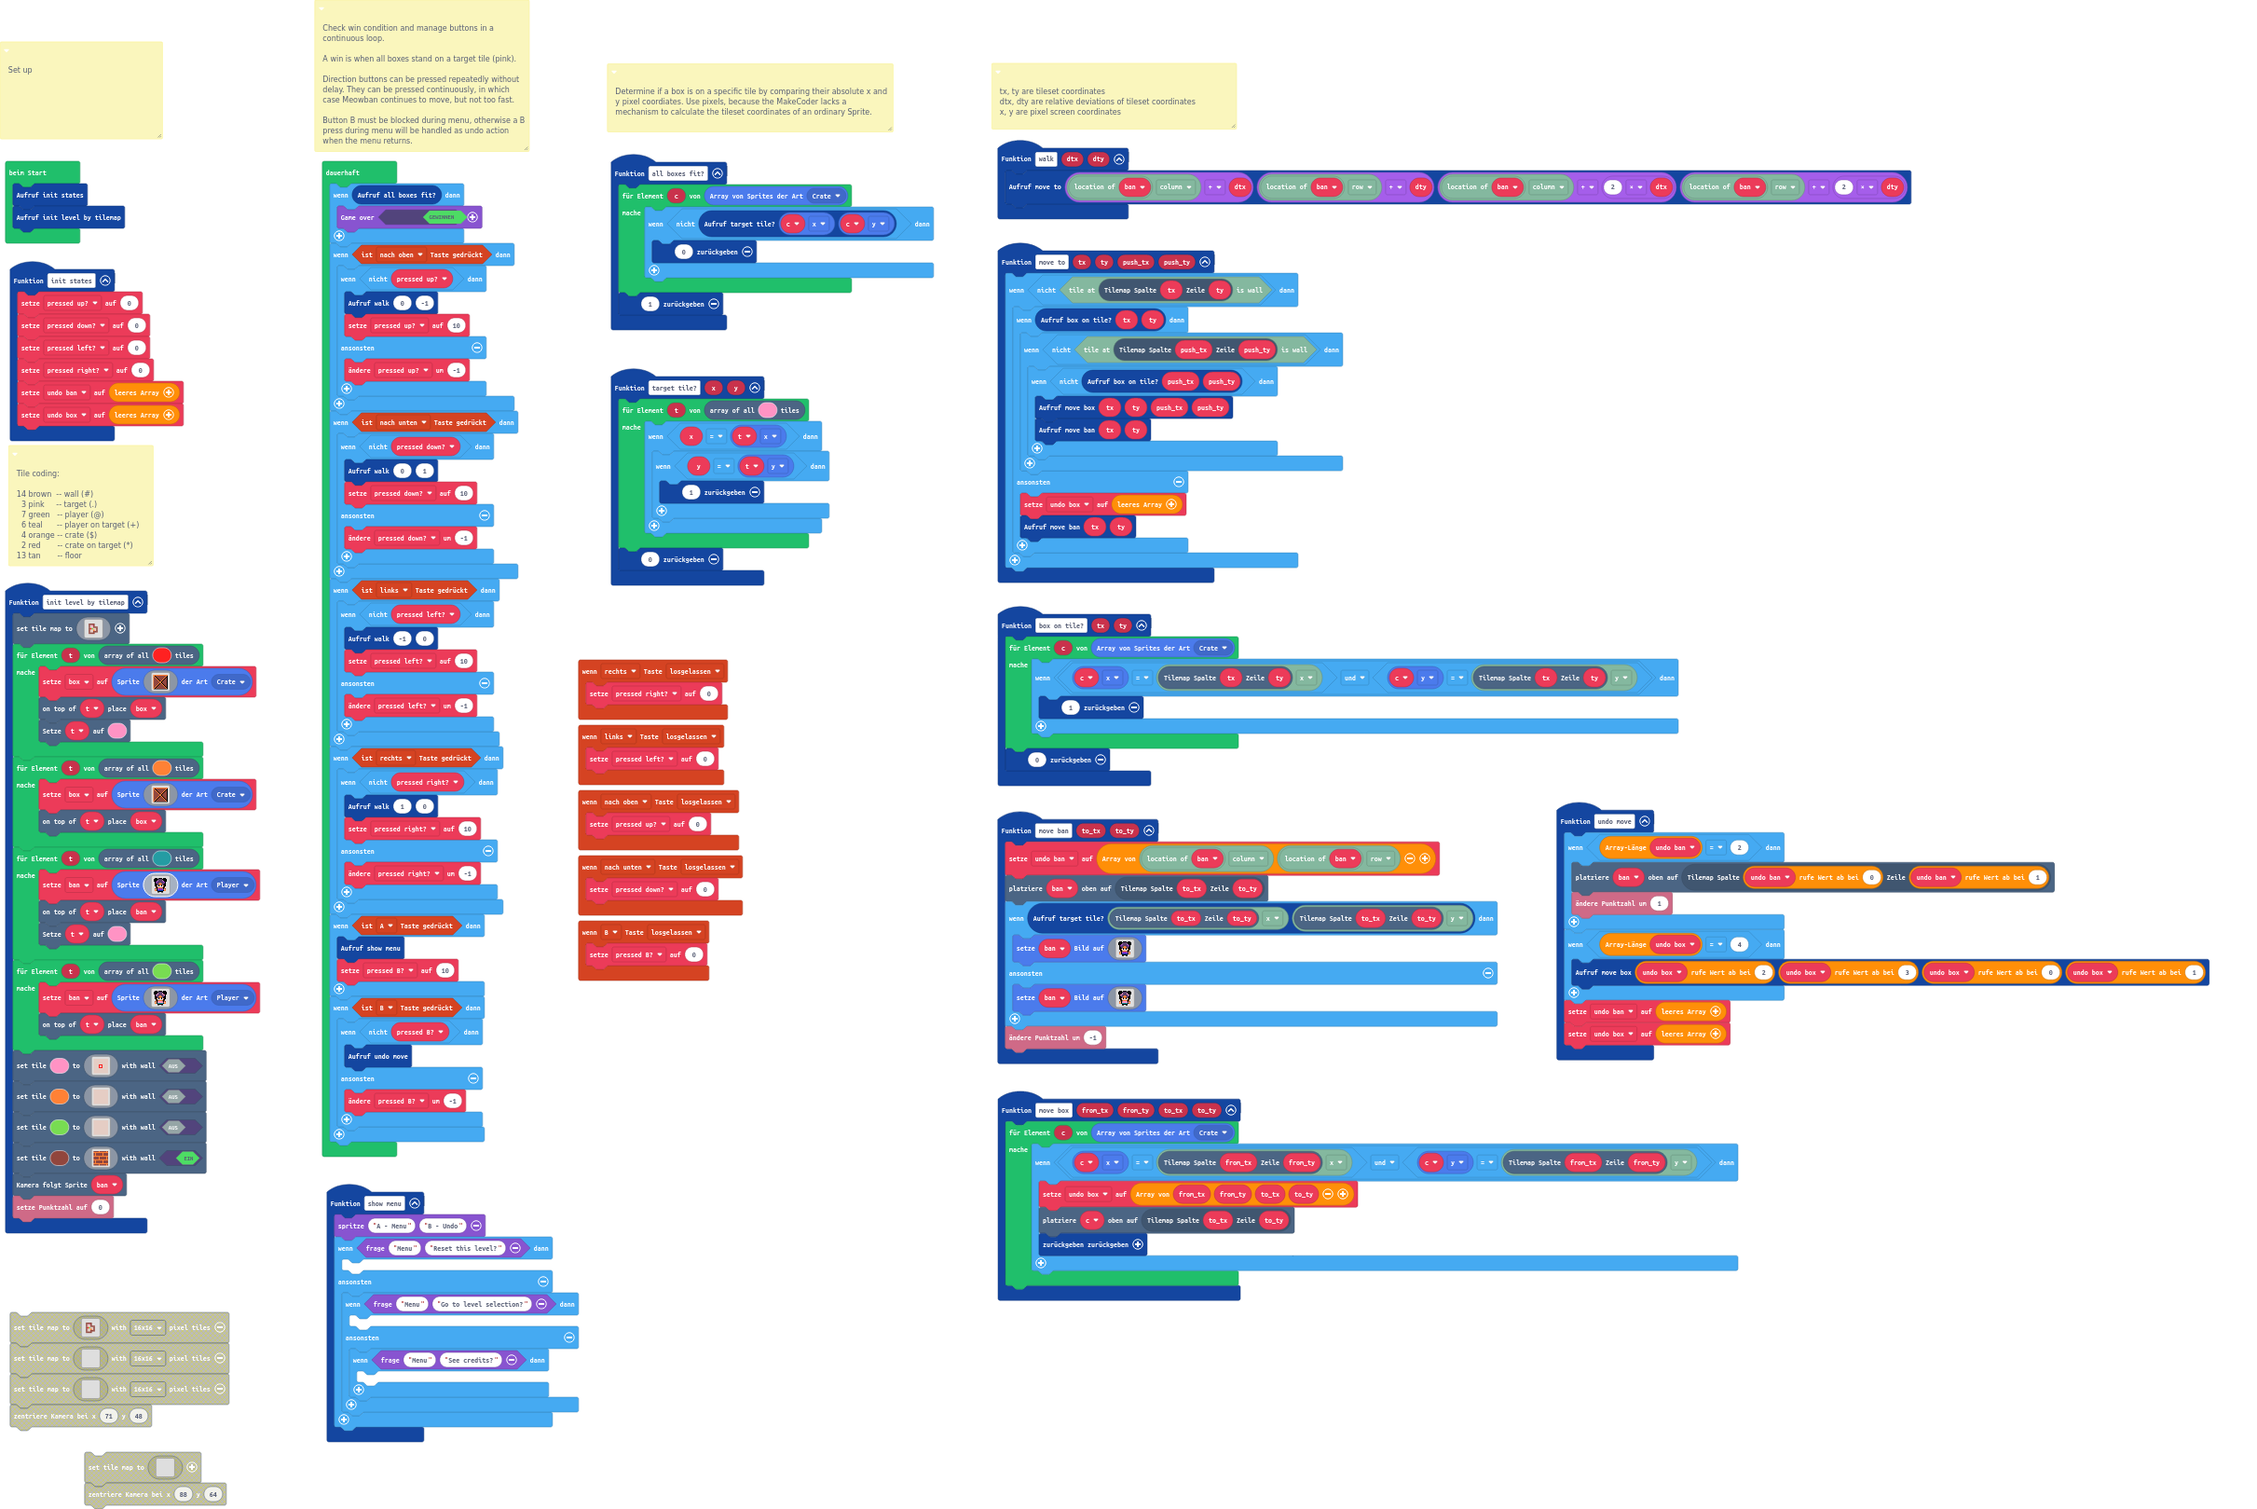
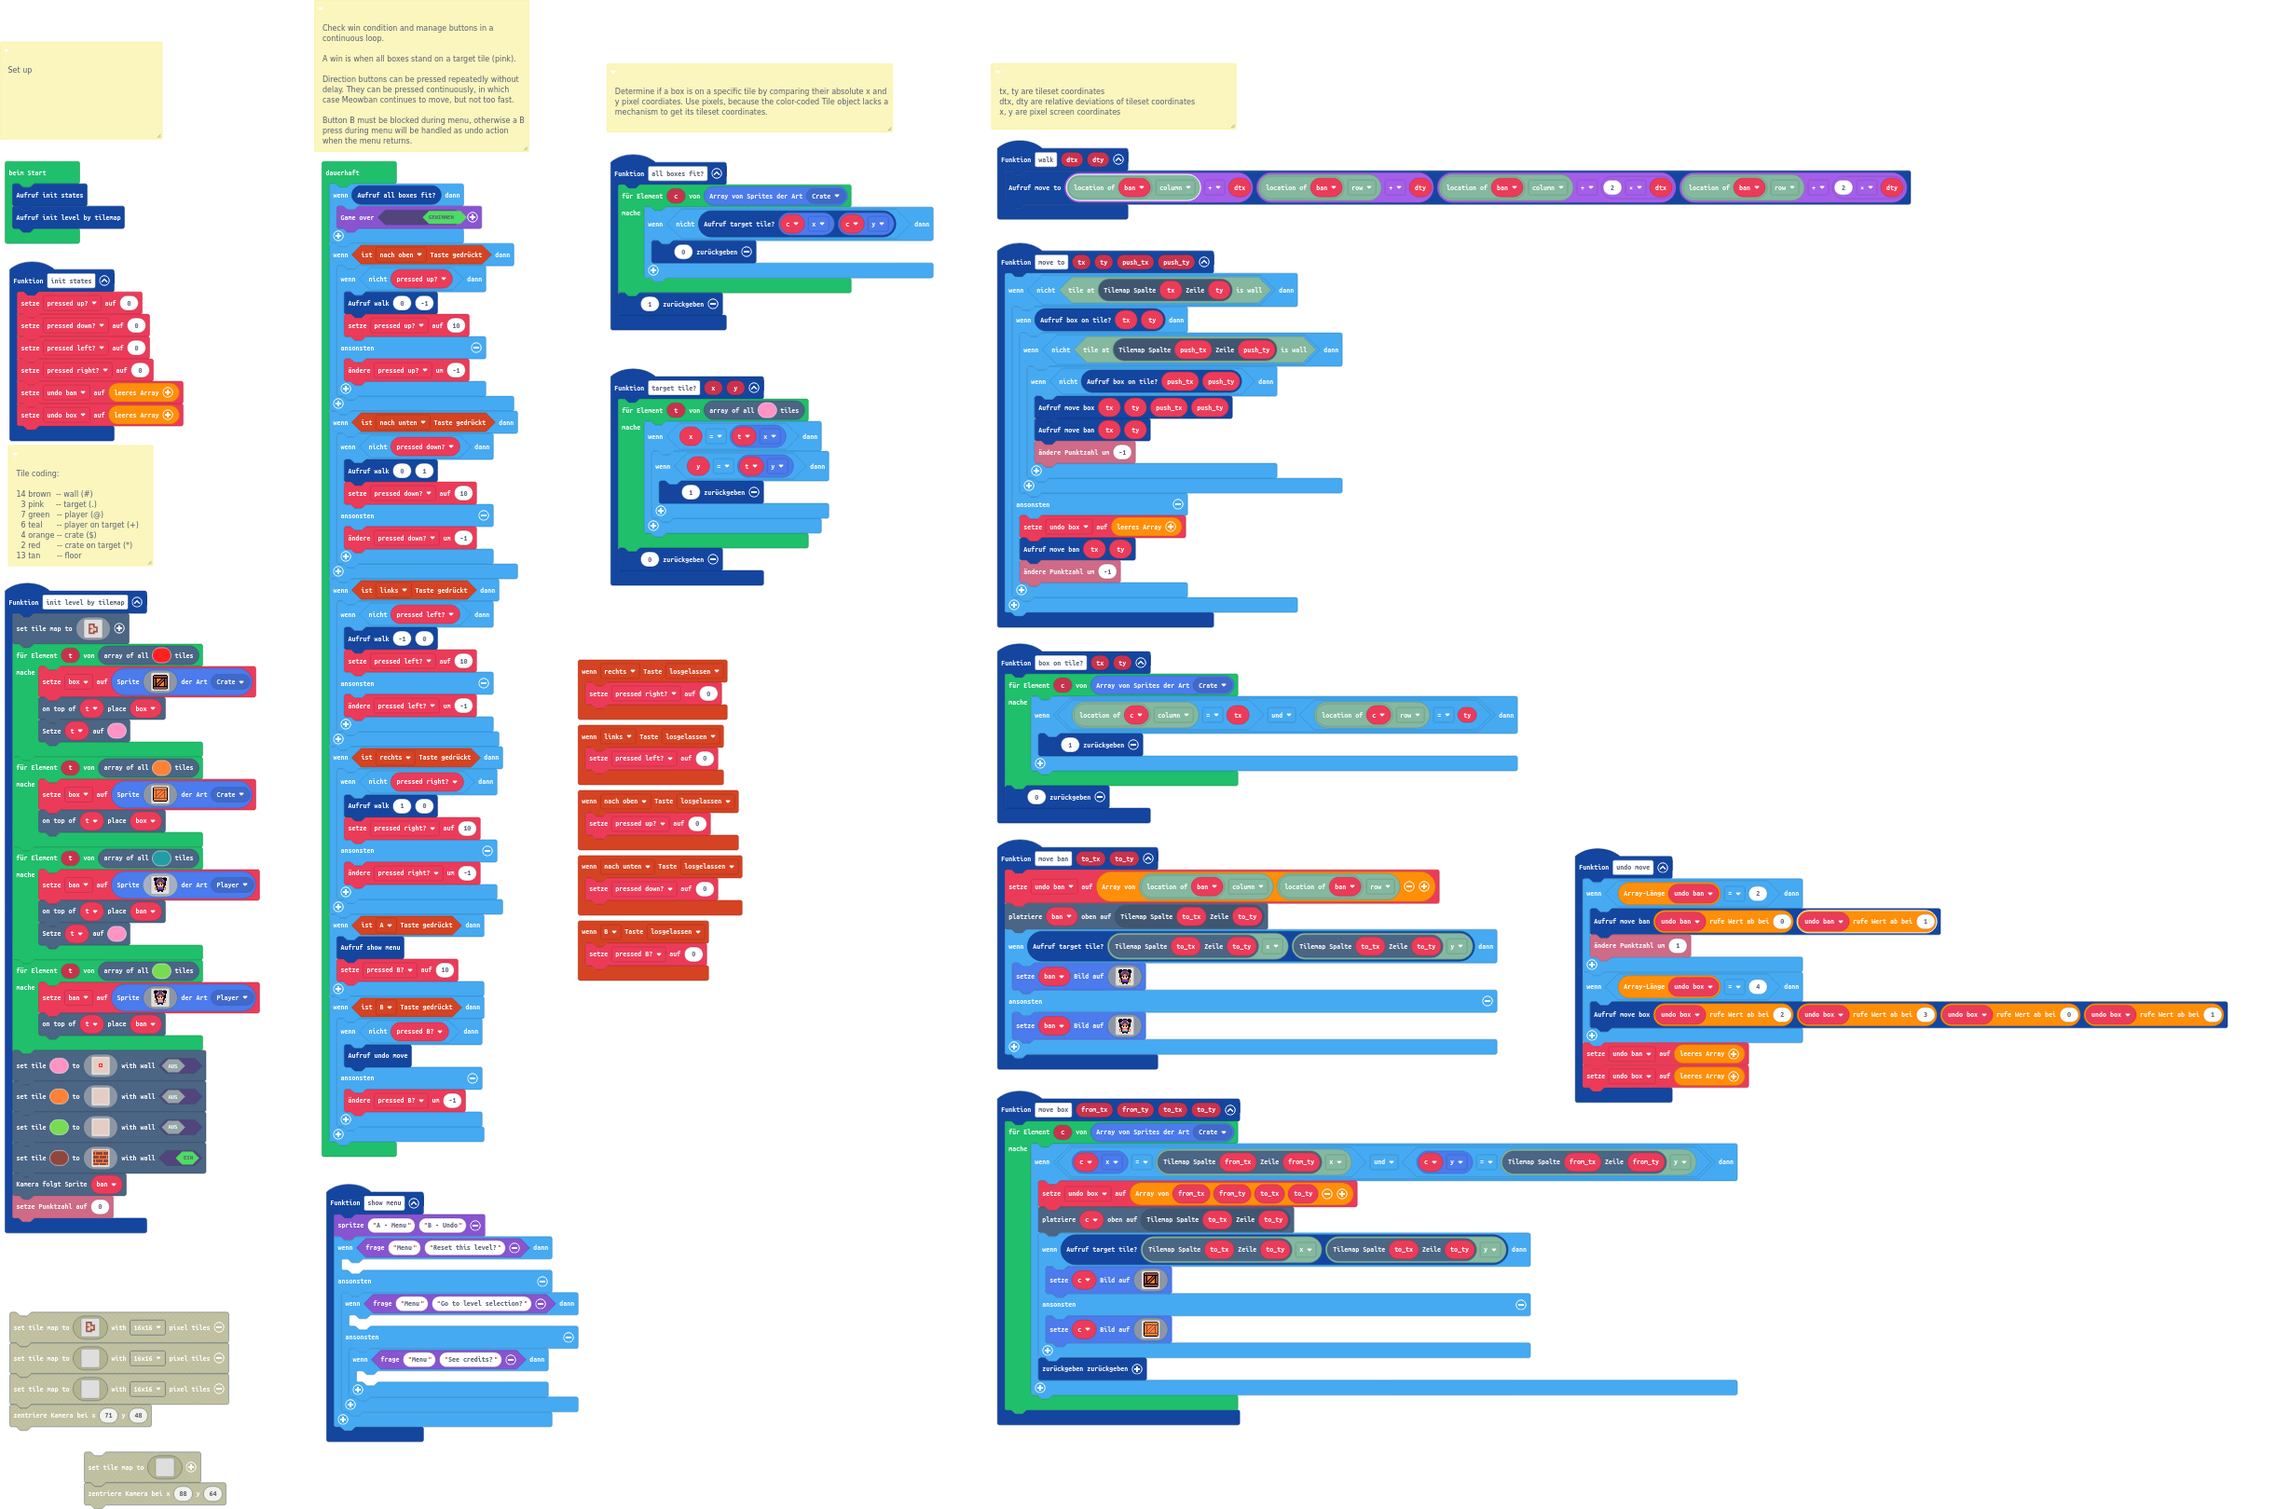
Different crate color when on target tile

diff --git a/main.ts b/main.ts
@@ -14,7 +14,7 @@ namespace SpriteKind {
  * Set up
  */
 /**
- * Determine if a box is on a specific tile by comparing their absolute x and y pixel coordiates. Use pixels, because the MakeCoder lacks a mechanism to calculate the tileset coordinates of an ordinary Sprite.
+ * Determine if a box is on a specific tile by comparing their absolute x and y pixel coordiates. Use pixels, because the color-coded Tile object lacks a mechanism to get its tileset coordinates.
  */
 controller.down.onEvent(ControllerButtonEvent.Released, function () {
     pressed_down = 0
@@ -68,11 +68,13 @@ function move_to (tx: number, ty: number, push_tx: number, push_ty: number) {
                 if (!(box_on_tile(push_tx, push_ty))) {
                     move_box(tx, ty, push_tx, push_ty)
                     move_ban(tx, ty)
+                    info.changeScoreBy(-1)
                 }
             }
         } else {
             undo_box = []
             move_ban(tx, ty)
+            info.changeScoreBy(-1)
         }
     }
 }
@@ -109,44 +111,44 @@ function init_level_by_tilemap () {
         `)
     for (let t of scene.getTilesByType(2)) {
         box = sprites.create(img`
-            4 4 4 4 4 4 4 4 4 4 4 4 4 4 4 4 
-            4 4 f e e e e e e e e e e e 4 f 
-            4 e 4 f e e e e e e e e e 4 f f 
-            4 e e 4 f e e e e e e e 4 f e f 
-            4 e e e 4 f e e e e e 4 f e e f 
-            4 e e e e 4 f e e e 4 f e e e f 
-            4 e e e e e 4 f e 4 f e e e e f 
-            4 e e e e e e 4 4 f e e e e e f 
-            4 e e e e e e 4 4 f e e e e e f 
-            4 e e e e e 4 f e 4 f e e e e f 
-            4 e e e e 4 f e e e 4 f e e e f 
-            4 e e e 4 f e e e e e 4 f e e f 
-            4 e e 4 f e e e e e e e 4 f e f 
-            4 e 4 f e e e e e e e e e 4 f f 
-            4 4 f e e e e e e e e e e e 4 f 
-            4 f f f f f f f f f f f f f f f 
+            . f f f f f f f f f f f f f f . 
+            f e e e e e e e e e e e e e e f 
+            f e e e e e e e e e e e e e e f 
+            f f f f f f f f f f f f f f f f 
+            f e e f 4 4 4 4 4 f e e f e e f 
+            f e e f 4 4 4 4 f e e e f e e f 
+            f e e f 4 4 4 f e e e f f e e f 
+            f e e f 4 4 f e e e f 4 f e e f 
+            f e e f 4 f e e e f 4 4 f e e f 
+            f e e f f e e e f 4 4 4 f e e f 
+            f e e f e e e f 4 4 4 4 f e e f 
+            f e e f e e f 4 4 4 4 4 f e e f 
+            f f f f f f f f f f f f f f f f 
+            f e e e e e e e e e e e e e e f 
+            f e e e e e e e e e e e e e e f 
+            . f f f f f f f f f f f f f f . 
             `, SpriteKind.Crate)
         scene.place(t, box)
         scene.setTileAt(t, 3)
     }
     for (let t of scene.getTilesByType(4)) {
         box = sprites.create(img`
-            4 4 4 4 4 4 4 4 4 4 4 4 4 4 4 4 
-            4 4 f e e e e e e e e e e e 4 f 
-            4 e 4 f e e e e e e e e e 4 f f 
-            4 e e 4 f e e e e e e e 4 f e f 
-            4 e e e 4 f e e e e e 4 f e e f 
-            4 e e e e 4 f e e e 4 f e e e f 
-            4 e e e e e 4 f e 4 f e e e e f 
-            4 e e e e e e 4 4 f e e e e e f 
-            4 e e e e e e 4 4 f e e e e e f 
-            4 e e e e e 4 f e 4 f e e e e f 
-            4 e e e e 4 f e e e 4 f e e e f 
-            4 e e e 4 f e e e e e 4 f e e f 
-            4 e e 4 f e e e e e e e 4 f e f 
-            4 e 4 f e e e e e e e e e 4 f f 
-            4 4 f e e e e e e e e e e e 4 f 
-            4 f f f f f f f f f f f f f f f 
+            . f f f f f f f f f f f f f f . 
+            f 4 4 4 4 4 4 4 4 4 4 4 4 4 4 f 
+            f 4 4 4 4 4 4 4 4 4 4 4 4 4 4 f 
+            f e e e e e e e e e e e e e e f 
+            f 4 4 e 4 4 4 4 4 e 4 4 e 4 4 f 
+            f 4 4 e 4 4 4 4 e 4 4 4 e 4 4 f 
+            f 4 4 e 4 4 4 e 4 4 4 e e 4 4 f 
+            f 4 4 e 4 4 e 4 4 4 e 4 e 4 4 f 
+            f 4 4 e 4 e 4 4 4 e 4 4 e 4 4 f 
+            f 4 4 e e 4 4 4 e 4 4 4 e 4 4 f 
+            f 4 4 e 4 4 4 e 4 4 4 4 e 4 4 f 
+            f 4 4 e 4 4 e 4 4 4 4 4 e 4 4 f 
+            f e e e e e e e e e e e e e e f 
+            f 4 4 4 4 4 4 4 4 4 4 4 4 4 4 f 
+            f 4 4 4 4 4 4 4 4 4 4 4 4 4 4 f 
+            . f f f f f f f f f f f f f f . 
             `, SpriteKind.Crate)
         scene.place(t, box)
     }
@@ -270,7 +272,7 @@ function init_level_by_tilemap () {
 }
 function undo_move () {
     if (undo_ban.length == 2) {
-        tiles.placeOnTile(ban, tiles.getTileLocation(undo_ban[0], undo_ban[1]))
+        move_ban(undo_ban[0], undo_ban[1])
         info.changeScoreBy(1)
     }
     if (undo_box.length == 4) {
@@ -324,11 +326,10 @@ function move_ban (to_tx: number, to_ty: number) {
             . . . . . f f . . f f . . . . . 
             `)
     }
-    info.changeScoreBy(-1)
 }
 function box_on_tile (tx: number, ty: number) {
     for (let c of sprites.allOfKind(SpriteKind.Crate)) {
-        if (c.x == tiles.locationXY(tiles.getTileLocation(tx, ty), tiles.XY.x) && c.y == tiles.locationXY(tiles.getTileLocation(tx, ty), tiles.XY.y)) {
+        if (tiles.locationXY(tiles.locationOfSprite(c), tiles.XY.column) == tx && tiles.locationXY(tiles.locationOfSprite(c), tiles.XY.row) == ty) {
             return 1
         }
     }
@@ -342,6 +343,45 @@ function move_box (from_tx: number, from_ty: number, to_tx: number, to_ty: numbe
         if (c.x == tiles.locationXY(tiles.getTileLocation(from_tx, from_ty), tiles.XY.x) && c.y == tiles.locationXY(tiles.getTileLocation(from_tx, from_ty), tiles.XY.y)) {
             undo_box = [from_tx, from_ty, to_tx, to_ty]
             tiles.placeOnTile(c, tiles.getTileLocation(to_tx, to_ty))
+            if (target_tile(tiles.locationXY(tiles.getTileLocation(to_tx, to_ty), tiles.XY.x), tiles.locationXY(tiles.getTileLocation(to_tx, to_ty), tiles.XY.y))) {
+                c.setImage(img`
+                    . f f f f f f f f f f f f f f . 
+                    f e e e e e e e e e e e e e e f 
+                    f e e e e e e e e e e e e e e f 
+                    f f f f f f f f f f f f f f f f 
+                    f e e f 4 4 4 4 4 f e e f e e f 
+                    f e e f 4 4 4 4 f e e e f e e f 
+                    f e e f 4 4 4 f e e e f f e e f 
+                    f e e f 4 4 f e e e f 4 f e e f 
+                    f e e f 4 f e e e f 4 4 f e e f 
+                    f e e f f e e e f 4 4 4 f e e f 
+                    f e e f e e e f 4 4 4 4 f e e f 
+                    f e e f e e f 4 4 4 4 4 f e e f 
+                    f f f f f f f f f f f f f f f f 
+                    f e e e e e e e e e e e e e e f 
+                    f e e e e e e e e e e e e e e f 
+                    . f f f f f f f f f f f f f f . 
+                    `)
+            } else {
+                c.setImage(img`
+                    . f f f f f f f f f f f f f f . 
+                    f 4 4 4 4 4 4 4 4 4 4 4 4 4 4 f 
+                    f 4 4 4 4 4 4 4 4 4 4 4 4 4 4 f 
+                    f e e e e e e e e e e e e e e f 
+                    f 4 4 e 4 4 4 4 4 e 4 4 e 4 4 f 
+                    f 4 4 e 4 4 4 4 e 4 4 4 e 4 4 f 
+                    f 4 4 e 4 4 4 e 4 4 4 e e 4 4 f 
+                    f 4 4 e 4 4 e 4 4 4 e 4 e 4 4 f 
+                    f 4 4 e 4 e 4 4 4 e 4 4 e 4 4 f 
+                    f 4 4 e e 4 4 4 e 4 4 4 e 4 4 f 
+                    f 4 4 e 4 4 4 e 4 4 4 4 e 4 4 f 
+                    f 4 4 e 4 4 e 4 4 4 4 4 e 4 4 f 
+                    f e e e e e e e e e e e e e e f 
+                    f 4 4 4 4 4 4 4 4 4 4 4 4 4 4 f 
+                    f 4 4 4 4 4 4 4 4 4 4 4 4 4 4 f 
+                    . f f f f f f f f f f f f f f . 
+                    `)
+            }
             return
         }
     }

diff --git a/images.g.ts b/images.g.ts
@@ -66,24 +66,6 @@ e e e e e e 4 e e e e e e e 4 e
 . . e d d e e e . . 
 . . e e e e . . . . 
 `;
-            case "image18":return img`
-4 4 4 4 4 4 4 4 4 4 4 4 4 4 4 4 
-4 4 f e e e e e e e e e e e 4 f 
-4 e 4 f e e e e e e e e e 4 f f 
-4 e e 4 f e e e e e e e 4 f e f 
-4 e e e 4 f e e e e e 4 f e e f 
-4 e e e e 4 f e e e 4 f e e e f 
-4 e e e e e 4 f e 4 f e e e e f 
-4 e e e e e e 4 4 f e e e e e f 
-4 e e e e e e 4 4 f e e e e e f 
-4 e e e e e 4 f e 4 f e e e e f 
-4 e e e e 4 f e e e 4 f e e e f 
-4 e e e 4 f e e e e e 4 f e e f 
-4 e e 4 f e e e e e e e 4 f e f 
-4 e 4 f e e e e e e e e e 4 f f 
-4 4 f e e e e e e e e e e e 4 f 
-4 f f f f f f f f f f f f f f f 
-`;
             case "image19":return img`
 . . f f f . f f f f . f f f . . 
 . f f f f f c c c c f f f f f . 
@@ -195,43 +177,7 @@ d d d d d d d d d d d d d d d d
 . . . . . f f f f f f . . . . . 
 . . . . . f f . . f f . . . . . 
 `;
-            case "image10":return img`
-. . . . . . . . . . . . . . . . 
-. . . . . . . . . . . . . . . . 
-. . . . . . . . . . . . . . . . 
-. . . . . . . . . . . . . . . . 
-. . . . . . . . . . . . . . . . 
-. . . . . . . . . . . . . . . . 
-. . . . . . . . . . . . . . . . 
-. . . . . . . . . . . . . . . . 
-. . . . . . . . . . . . . . . . 
-. . . . . . . . . . . . . . . . 
-. . . . . . . . . . . . . . . . 
-. . . . . . . . . . . . . . . . 
-. . . . . . . . . . . . . . . . 
-. . . . . . . . . . . . . . . . 
-. . . . . . . . . . . . . . . . 
-. . . . . . . . . . . . . . . . 
-`;
             case "image12":return img`
-. . f f f . f f f f . f f f . . 
-. f f f f f c c c c f f f f f . 
-. f f f f b c c c c b f f f f . 
-. f f f b a c c c c a b f f f . 
-. . f a a c c c c c c a a f . . 
-. . f c c c c 4 4 c c c c f . . 
-. . f f c c 4 4 4 4 c c f f . . 
-. . f f f b f 4 4 f b f f f . . 
-. . f f 4 1 f d d f 1 4 f f . . 
-. . . f f d d d d d d f f . . . 
-. . . e f e 4 4 4 4 e f e . . . 
-. . e 4 f b a a a a b f 4 e . . 
-. . 4 d f a a a a a a c d 4 . . 
-. . 4 4 f 8 8 8 8 8 8 f 4 4 . . 
-. . . . . f f f f f f . . . . . 
-. . . . . f f . . f f . . . . . 
-`;
-            case "image13":return img`
 . . f f f . f f f f . f f f . . 
 . f f f f f c c c c f f f f f . 
 . f f f f b c c c c b f f f f . 
@@ -266,6 +212,114 @@ d d d d d d d d d d d d d d d d
 . . 4 4 f 6 6 6 6 6 6 f 4 4 . . 
 . . . . . f f f f f f . . . . . 
 . . . . . f f . . f f . . . . . 
+`;
+            case "image18":return img`
+. f f f f f f f f f f f f f f . 
+f 4 4 4 4 4 4 4 4 4 4 4 4 4 4 f 
+f 4 4 4 4 4 4 4 4 4 4 4 4 4 4 f 
+f e e e e e e e e e e e e e e f 
+f 4 4 e 4 4 4 4 4 e 4 4 e 4 4 f 
+f 4 4 e 4 4 4 4 e 4 4 4 e 4 4 f 
+f 4 4 e 4 4 4 e 4 4 4 e e 4 4 f 
+f 4 4 e 4 4 e 4 4 4 e 4 e 4 4 f 
+f 4 4 e 4 e 4 4 4 e 4 4 e 4 4 f 
+f 4 4 e e 4 4 4 e 4 4 4 e 4 4 f 
+f 4 4 e 4 4 4 e 4 4 4 4 e 4 4 f 
+f 4 4 e 4 4 e 4 4 4 4 4 e 4 4 f 
+f e e e e e e e e e e e e e e f 
+f 4 4 4 4 4 4 4 4 4 4 4 4 4 4 f 
+f 4 4 4 4 4 4 4 4 4 4 4 4 4 4 f 
+. f f f f f f f f f f f f f f . 
+`;
+            case "image10":return img`
+. f f f f f f f f f f f f f f . 
+f e e e e e e e e e e e e e e f 
+f e e e e e e e e e e e e e e f 
+f f f f f f f f f f f f f f f f 
+f e e f 4 4 4 4 4 f e e f e e f 
+f e e f 4 4 4 4 f e e e f e e f 
+f e e f 4 4 4 f e e e f f e e f 
+f e e f 4 4 f e e e f 4 f e e f 
+f e e f 4 f e e e f 4 4 f e e f 
+f e e f f e e e f 4 4 4 f e e f 
+f e e f e e e f 4 4 4 4 f e e f 
+f e e f e e f 4 4 4 4 4 f e e f 
+f f f f f f f f f f f f f f f f 
+f e e e e e e e e e e e e e e f 
+f e e e e e e e e e e e e e e f 
+. f f f f f f f f f f f f f f . 
+`;
+            case "image13":return img`
+. . f f f . f f f f . f f f . . 
+. f f f f f c c c c f f f f f . 
+. f f f f b c c c c b f f f f . 
+. f f f b a c c c c a b f f f . 
+. . f a a c c c c c c a a f . . 
+. . f c c c c 4 4 c c c c f . . 
+. . f f c c 4 4 4 4 c c f f . . 
+. . f f f b f 4 4 f b f f f . . 
+. . f f 4 1 f d d f 1 4 f f . . 
+. . . f f d d d d d d f f . . . 
+. . . e f e 4 4 4 4 e f e . . . 
+. . e 4 f b a a a a b f 4 e . . 
+. . 4 d f a a a a a a c d 4 . . 
+. . 4 4 f 8 8 8 8 8 8 f 4 4 . . 
+. . . . . f f f f f f . . . . . 
+. . . . . f f . . f f . . . . . 
+`;
+            case "image15":return img`
+. . f f f . f f f f . f f f . . 
+. f f f f f c c c c f f f f f . 
+. f f f f b c c c c b f f f f . 
+. f f f c 3 c c c c 3 c f f f . 
+. . f 3 3 c c c c c c 3 3 f . . 
+. . f c c c c 4 4 c c c c f . . 
+. . f f c c 4 4 4 4 c c f f . . 
+. . f f f b f 4 4 f b f f f . . 
+. . f f 4 1 f d d f 1 4 f f . . 
+. . . f f d d d d d d f f . . . 
+. . . e f e 4 4 4 4 e f e . . . 
+. . e 4 f b 3 3 3 3 b f 4 e . . 
+. . 4 d f 3 3 3 3 3 3 c d 4 . . 
+. . 4 4 f 6 6 6 6 6 6 f 4 4 . . 
+. . . . . f f f f f f . . . . . 
+. . . . . f f . . f f . . . . . 
+`;
+            case "image16":return img`
+. f f f f f f f f f f f f f f . 
+f e e e e e e e e e e e e e e f 
+f e e e e e e e e e e e e e e f 
+f f f f f f f f f f f f f f f f 
+f e e f 4 4 4 4 4 f e e f e e f 
+f e e f 4 4 4 4 f e e e f e e f 
+f e e f 4 4 4 f e e e f f e e f 
+f e e f 4 4 f e e e f 4 f e e f 
+f e e f 4 f e e e f 4 4 f e e f 
+f e e f f e e e f 4 4 4 f e e f 
+f e e f e e e f 4 4 4 4 f e e f 
+f e e f e e f 4 4 4 4 4 f e e f 
+f f f f f f f f f f f f f f f f 
+f e e e e e e e e e e e e e e f 
+f e e e e e e e e e e e e e e f 
+. f f f f f f f f f f f f f f . 
+`;
+            case "image17":return img`
+. f f f f f f f f f f f f f f . 
+f 4 4 4 4 4 4 4 4 4 4 4 4 4 4 f 
+f 4 4 4 4 4 4 4 4 4 4 4 4 4 4 f 
+f e e e e e e e e e e e e e e f 
+f 4 4 e 4 4 4 4 4 e 4 4 e 4 4 f 
+f 4 4 e 4 4 4 4 e 4 4 4 e 4 4 f 
+f 4 4 e 4 4 4 e 4 4 4 e e 4 4 f 
+f 4 4 e 4 4 e 4 4 4 e 4 e 4 4 f 
+f 4 4 e 4 e 4 4 4 e 4 4 e 4 4 f 
+f 4 4 e e 4 4 4 e 4 4 4 e 4 4 f 
+f 4 4 e 4 4 4 e 4 4 4 4 e 4 4 f 
+f 4 4 e 4 4 e 4 4 4 4 4 e 4 4 f 
+f e e e e e e e e e e e e e e f 
+f 4 4 4 4 4 4 4 4 4 4 4 4 4 4 f 
+f 4 4 4 4 4 4 4 4 4 4 4 4 4 4 f 
+. f f f f f f f f f f f f f f . 
 `;
         }
         return null;
